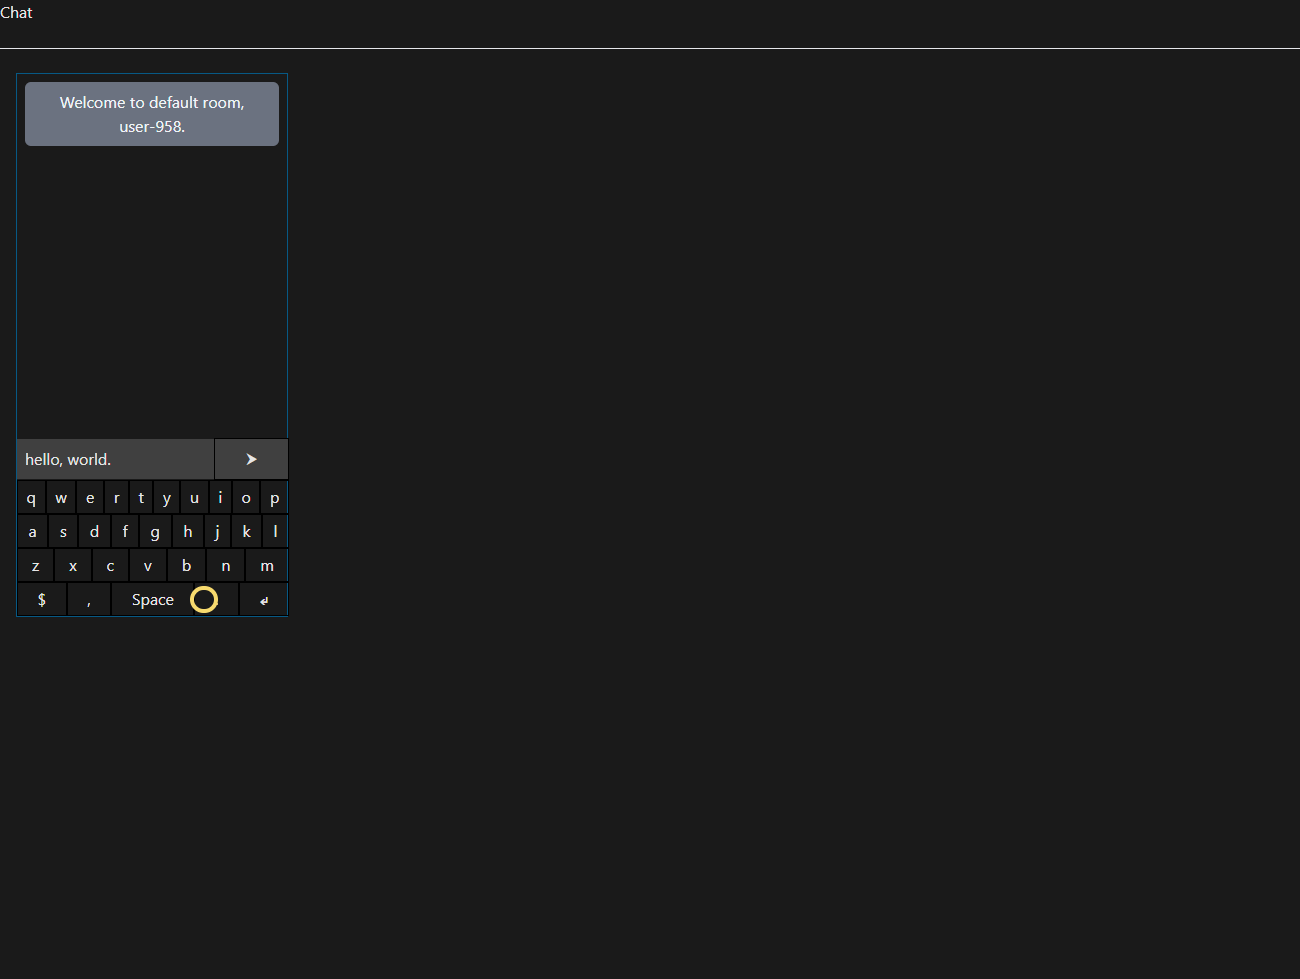
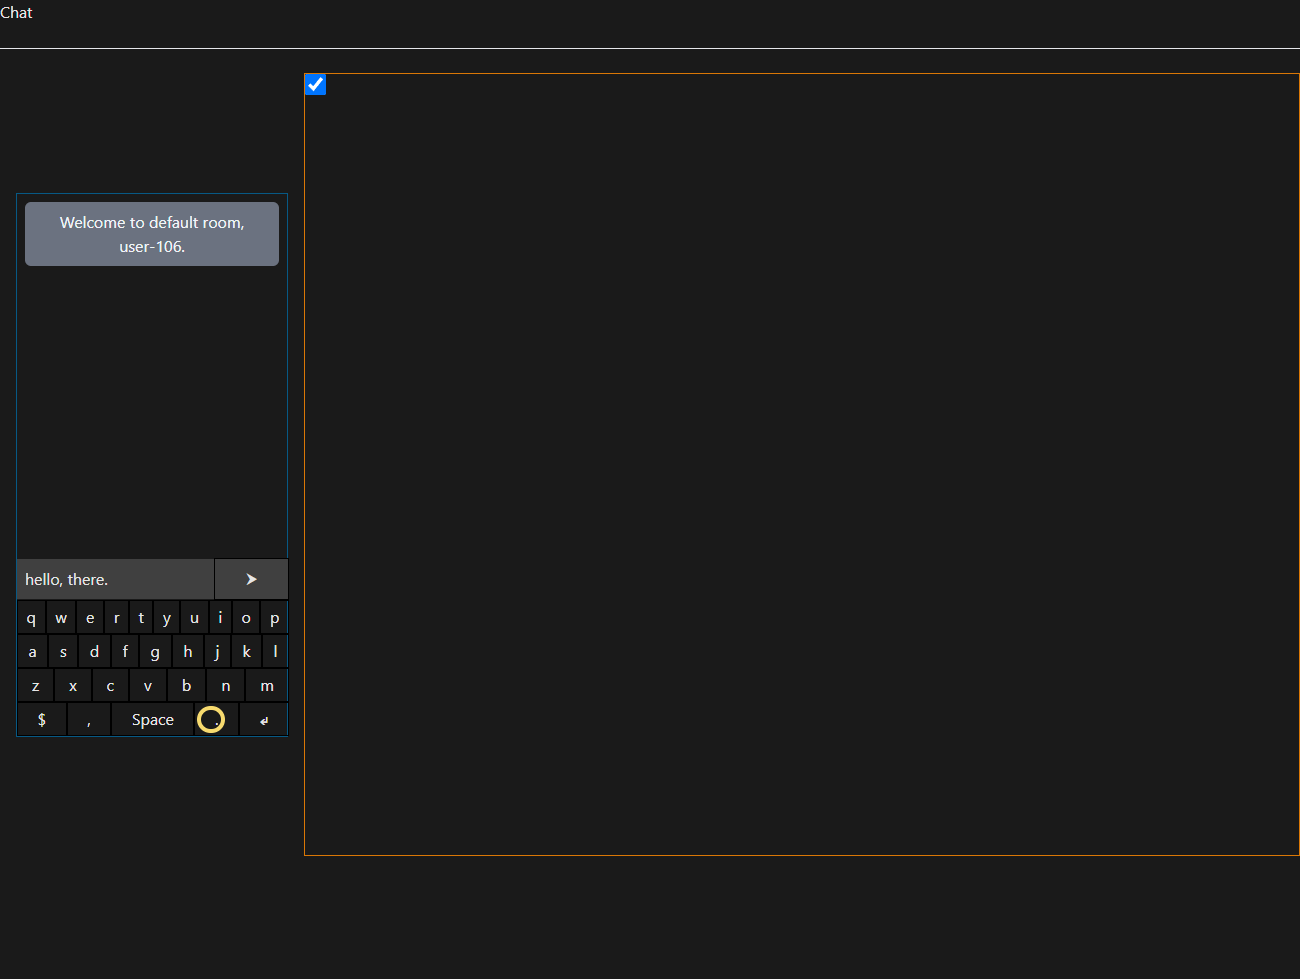
fix:fe: added checkbox for Auto KB

Changed region(s): [[0.0, 0.429, 0.2462, 0.7661], [0.0, 0.0613, 0.2769, 0.1532], [0.0, 0.1839, 0.2154, 0.2758]]

diff --git a/client/src/pages/Chat/Chat.tsx b/client/src/pages/Chat/Chat.tsx
@@ -1,14 +1,17 @@
 import { Socket } from 'socket.io-client';
-import { FC, useEffect, useRef, useState } from 'react';
+import { ChangeEvent, FC, useEffect, useRef, useState } from 'react';
+import { useSelector, useDispatch} from 'react-redux';
 import Messages from '../../components/Messages/Messages';
 import InputBtn from '../../components/InputBtn/InputBtn';
 import Cursor from '../../components/Cursor/Cursor';
 import LinkMock from '../../components/LinkMock/LinkMock';
 // import Keyboard from '../../components/Keyboard/Keyboard';
+import { setIsAuto } from '../../components/LinkMock/LinkMockSlice';
 import { keysDict } from '../../helpers/keyboard';
 import { uuid } from '../../helpers/misc';
 import { TStateCount, TFrom, ESocketEventsDict, IClientMessageData, IUser } from '../../types/global';
 import styles from './Chat.module.scss';
+import { RootState } from '../../store/store';
 
 interface IChatProps {
   socket: Socket;
@@ -16,21 +19,12 @@ interface IChatProps {
 
 const Chat: FC<IChatProps> = (props) => {
 
+  const dispatch = useDispatch();
   const tempData:IClientMessageData[] = [
-    {
-      id: 1,
-      from: 'self',
-      username: 'Me',
-      messageText: 'Hello'
-    },
-    {
-      id: 2,
-      from: 'others',
-      username: 'Others1',
-      messageText: 'Hi'
-    }
+    { id: 1, from: 'self', username: 'Me', messageText: 'Hello' }
   ];
-
+  const timeout:any = useRef(null);
+  const { isAuto } = useSelector((state:RootState) => state.linkMock);
   const [ isConnected, setIsConnected ] = useState(false);
   const [ messageList, setMessageList ] = useState<IClientMessageData[]>([]);
   const [ onNewMessage, setOnNewMessage ] = useState(0);
@@ -41,9 +35,8 @@ const Chat: FC<IChatProps> = (props) => {
   const name = useRef(`user-${uuid(3)}`);
   const room = 'default';
   const users:IUser[] = [];
-  const timeout:any = useRef(null);
   const isKeyboard = true;
-  const [ isAuto, setIsAuto ] = useState(false);
+  // const [ isAuto, setIsAuto ] = useState(false);
   const [ clickedKey, setClickedKey ] = useState({key: ''});
   // const timeout = useRef<NodeJS.Timeout | null>(null);
 
@@ -247,14 +240,13 @@ const Chat: FC<IChatProps> = (props) => {
     if (keysDict[currKey]==='Enter') return;
     // COMMT: TODO: send space
 
-    console.log(`currKey: `, currKey);
+    // console.log(`currKey: `, currKey);
 
     if (currKey.key?.length === 0) {
       setClickedKey({key:keysDict[currKey.key]});
     } else {
 
       // COMMT: Auto mode
-      setIsAuto(prev => !prev);
       currKey.key?.split('')?.forEach((currLetter:any) => {
         let newVal = ' ';
         // COMMT: key ref instead of key
@@ -272,34 +264,48 @@ const Chat: FC<IChatProps> = (props) => {
 
   };
 
+  function handleCheckbox(e:ChangeEvent<HTMLInputElement>) {
+    const value = e?.target?.checked;
+    // setIsAuto(value);
+    dispatch(
+      setIsAuto(value)
+    );
+  };
+
+
   return (
     <div>
       <p>Chat</p>
       <br /><hr /><br />
+      <div className={styles['chat-chart-container']}>
+        <div className={styles['chat-container']}>
+          <Messages messageList={messageList} onNewMessage={onNewMessage} />
 
-      <div className={styles['chat-container']}>
-        <Messages messageList={messageList} onNewMessage={onNewMessage} />
-
-        <div >
-          <div>
-            {isTypingText ? <p>{typingUser || 'A user'} is typing...</p> : ''}
+          <div >
+            <div>
+              {isTypingText ? <p>{typingUser || 'A user'} is typing...</p> : ''}
+            </div>
+            <InputBtn
+              clickedKey={clickedKey}
+              onNewMessage={(messageText)=>handleAddMessageToList('self', messageText)}
+              setOnTyping={setOnTyping}
+            />
+            <Cursor />
+            {
+              isKeyboard && (
+                <LinkMock
+                  onClickKey={handleClickKey}
+                />
+              )
+            }
           </div>
-          <InputBtn
-            clickedKey={clickedKey}
-            onNewMessage={(messageText)=>handleAddMessageToList('self', messageText)}
-            setOnTyping={setOnTyping}
-            isAuto={isAuto}
-          />
-          <Cursor />
-          {
-            //  && !isAuto
-            isKeyboard && (
-              <LinkMock
-                onClickKey={handleClickKey}
-                isAuto={isAuto}
-              />
-            )
-          }
+
+        </div>
+
+        <div className={styles['chart-container']}>
+            <div className={styles['checkbox-text']}>
+              <input type="checkbox" onChange={handleCheckbox} />
+            </div>
         </div>
 
       </div>

diff --git a/client/src/components/LinkMock/LinkMock.tsx b/client/src/components/LinkMock/LinkMock.tsx
@@ -17,7 +17,6 @@ type TCurrKeyObj = {[key:string]:string};
 
 interface ILinkMockProps {
   onClickKey(arg0:TCurrKeyObj): void;
-  isAuto: boolean;
 }
 
 const LinkMock: FC<ILinkMockProps> = (props) => {
@@ -27,15 +26,15 @@ const LinkMock: FC<ILinkMockProps> = (props) => {
     general: true,
     keyClickCount: true
   });
-  const selectedText = useRef("Hello, world.");
+  const selectedText = useRef("Hello, there.");
   const receivedText = useRef('');
   const isSentAll = useRef(false);
   const currKeyToAdd = useRef('');
-  const { keyAxes, sentLetter, keyClickCount } = useSelector((state:RootState) => state.linkMock);
+  const isContinue = useRef(false);
+  const { keyAxes, sentLetter, keyClickCount, isAuto } = useSelector((state:RootState) => state.linkMock);
   const [ clickKey, setClickKey ] = useState({});
   const [ receivedTextIdx, setReceivedTextIdx ] = useState(0);
   const [ allKey, setAllKey ] = useState({current:{}});
-  const isContinue = useRef(false);
 
   useEffect(() => {
     if (firstRender.current.keyClickCount) {
@@ -45,12 +44,12 @@ const LinkMock: FC<ILinkMockProps> = (props) => {
       activateLinkMock();
 
     };
-  }, [allKey, keyClickCount]);
+  }, [isAuto, allKey, keyClickCount]);
 
   useEffect(() => {
     let timerCount = 0;
     const timer: ReturnType<typeof setInterval> = setInterval(() => {
-      if (timerCount > selectedText.current?.length) {
+      if (!isAuto || timerCount > selectedText.current?.length) {
         return clearInterval(timer);
       };
 
@@ -60,7 +59,13 @@ const LinkMock: FC<ILinkMockProps> = (props) => {
     }, 1000);
 
     return() => clearInterval(timer);
-  }, []);
+  }, [isAuto]);
+
+  useEffect(() => {
+    receivedText.current = receivedText.current + currKeyToAdd.current;
+
+    // keyClickCount
+  }, [keyAxes, currKeyToAdd.current]);
 
   useEffect(() => {
     const newKey = receivedText.current?.substring(receivedTextIdx-1, receivedTextIdx);
@@ -68,16 +73,10 @@ const LinkMock: FC<ILinkMockProps> = (props) => {
     if (!newKey) return;
     setClickKey({'key': newKey});
 
-  }, [receivedText, receivedTextIdx ]);
-
-  useEffect(() => {
-    receivedText.current = receivedText.current + currKeyToAdd.current;
-
-    // keyClickCount
-  }, [keyAxes]);
+  }, [receivedTextIdx]);
 
   function activateLinkMock() {
-    if (isSentAll.current) return;
+    if (!isAuto || isSentAll.current) return;
     let currKeyPos = 0;
     selectedText.current?.toLowerCase()?.split('')?.forEach((currSelText, currSelTextIdx) => {
       // COMMT: Why: Loops over selectedText letters to match Kb letters and send the pos to Cursor.
@@ -89,10 +88,10 @@ const LinkMock: FC<ILinkMockProps> = (props) => {
       // COMMT: Loops through ['f', 'g', 'h'], ['q', 'w', 'e'] etc.
       //  COMMT: and if selected text matches searched text then
       //  COMMT: dispatch it to keyboard for auto typing
+
       currLocationKeys?.forEach( (currKey:any, currKeyIdx) => {
 
         if ( currSelTextIdx === keyClickCount && currSelText === currKey ) {
-
 
           if (!Object.keys(allKey.current)?.length) return;
           const keysDictRev = keysDictReversed();
@@ -113,6 +112,7 @@ const LinkMock: FC<ILinkMockProps> = (props) => {
             y: keyRect?.y,
             forceUpdate: forceUpdateCount+1
           };
+
           dispatch(setKeyAxes(newKeyAxes));
           currKeyToAdd.current = currKey;
           currKeyPos+=1;
@@ -132,7 +132,6 @@ const LinkMock: FC<ILinkMockProps> = (props) => {
     <>
       {/* {JSON.stringify(receivedText.current, null, 2)} */}
       <Keyboard
-        isAuto={props.isAuto}
         // clickKey={clickedKey}
         clickKey={clickKey}
         onClickKey={props.onClickKey}

diff --git a/client/src/components/InputBtn/InputBtn.tsx b/client/src/components/InputBtn/InputBtn.tsx
@@ -8,22 +8,21 @@ interface IInputBtnProps {
   onNewMessage: (e:string) => void;
   clickedKey: any;
   setOnTyping: any;
-  isAuto: boolean;
 }
 
 const InputBtn: FC<IInputBtnProps> = (props) => {
   const dispatch = useDispatch();
   const firstRender = useRef(true);
-  const { sentLetter } = useSelector((state:RootState) => state.linkMock);
+  const { sentLetter, isAuto } = useSelector((state:RootState) => state.linkMock);
   // const { text, currTextIdx } = useSelector((state:RootState) => state.text);
   const temp = {text: '', currTextIdx: 0};
   const { text, currTextIdx } = temp;
   const [ newMessageText, setNewMessageText ] = useState('');
 
   useEffect(() => {
-    console.log(`props InputBtn: `, props.clickedKey);
+    // console.log(`props InputBtn: `, props);
 
-  }, [props.clickedKey]);
+  }, [props]);
 
   useEffect(() => {
     if (firstRender.current) {
@@ -51,9 +50,9 @@ const InputBtn: FC<IInputBtnProps> = (props) => {
 
     if (text[currTextIdx] === sentLetter?.letter) {
       // COMMT: Doesnt even work!
-      dispatch(
-        incrementKeyClickCount()
-      );
+      // dispatch(
+      //   incrementKeyClickCount()
+      // );
     };
 
     return;

diff --git a/client/src/components/LinkMock/LinkMockSlice.ts b/client/src/components/LinkMock/LinkMockSlice.ts
@@ -10,6 +10,7 @@ export interface ILinkMockState {
     letter: string;
   };
   keyClickCount: number;
+  isAuto: boolean;
 }
 
 const initialState:ILinkMockState = {
@@ -29,7 +30,8 @@ const initialState:ILinkMockState = {
   sentLetter: {
     letter: '',
   },
-  keyClickCount: 0
+  keyClickCount: 0,
+  isAuto: false
 };
 
 export const linkMockSlice = createSlice({
@@ -50,6 +52,9 @@ export const linkMockSlice = createSlice({
     },
     incrementKeyClickCount: state => {
       state.keyClickCount += 1;
+    },
+    setIsAuto: (state, action) => {
+      state.isAuto = action.payload;
     }
   },
 });
@@ -59,7 +64,8 @@ export const {
   toggleIsCurrentRef,
   setKeyAxes,
   setSentLetter,
-  incrementKeyClickCount
+  incrementKeyClickCount,
+  setIsAuto
 
 } = linkMockSlice.actions;
 

diff --git a/client/src/components/Cursor/Cursor.tsx b/client/src/components/Cursor/Cursor.tsx
@@ -15,7 +15,7 @@ const Cursor: FC<ICursorProps> = (props) => {
   const timer:MutableRefObject<NodeJS.Timer|null> = useRef(null);
   const isMoveCursor = useRef(true);
   // const pointRef = useSelector((state:RootState) => state.point?.pointRef);
-  const { keyAxes } = useSelector((state:RootState) => state.linkMock);
+  const { keyAxes, isAuto } = useSelector((state:RootState) => state.linkMock);
   const [ cursorPos, setCursorPos ] = useState(initialCursorState);
 
   useEffect(() => {
@@ -51,6 +51,7 @@ const Cursor: FC<ICursorProps> = (props) => {
         left: goDirectlyToClickableBtn + posAdjustment.left,
       }));
 
+      if (!isAuto) return;
       dispatch(
         incrementKeyClickCount()
       );

diff --git a/client/src/pages/Chat/Chat.module.scss b/client/src/pages/Chat/Chat.module.scss
@@ -1,5 +1,9 @@
 @use '../../styles/App.scss' as *;
 
+.chat-chart-container {
+  @apply flex_space-between_center;
+}
+
 .chat-container {
   // COMMT: using direct function w/ dynamic params
   // @include use-flex('flex_left_start');
@@ -15,4 +19,16 @@
   width: $chat-width;
   max-width: $chat-max-width;
   @apply border border-sky-800;
+}
+
+.chart-container {
+  height: 80vh;
+  width: $chat-width;
+  @apply border border-amber-600;
+}
+
+input[type="checkbox"] {
+  height: 1.3rem;
+  width: 1.3rem;
+  cursor: pointer;
 }

diff --git a/client/src/components/Keyboard/Keyboard.tsx b/client/src/components/Keyboard/Keyboard.tsx
@@ -6,7 +6,6 @@ import styles from './Keyboard.module.scss';
 type TCurrKeyObj = {[key:string]:string};
 
 interface IKeyboardProps {
-  isAuto: boolean;
   // COMMT: To chat to InputBtn
   clickKey: {[key:string]:string};
   onClickKey(arg0:TCurrKeyObj): void;

diff --git a/client/src/components/InputBtn/InputBtn.module.scss b/client/src/components/InputBtn/InputBtn.module.scss
@@ -26,9 +26,10 @@
 
   button {
     @include input-btn;
+    @apply border border-black;
+    @apply cursor-pointer select-none;
     width: 100%;
     background-color: hsl(0deg 0% 25%);
-    @apply border border-black;
   }
 
   button:hover,
